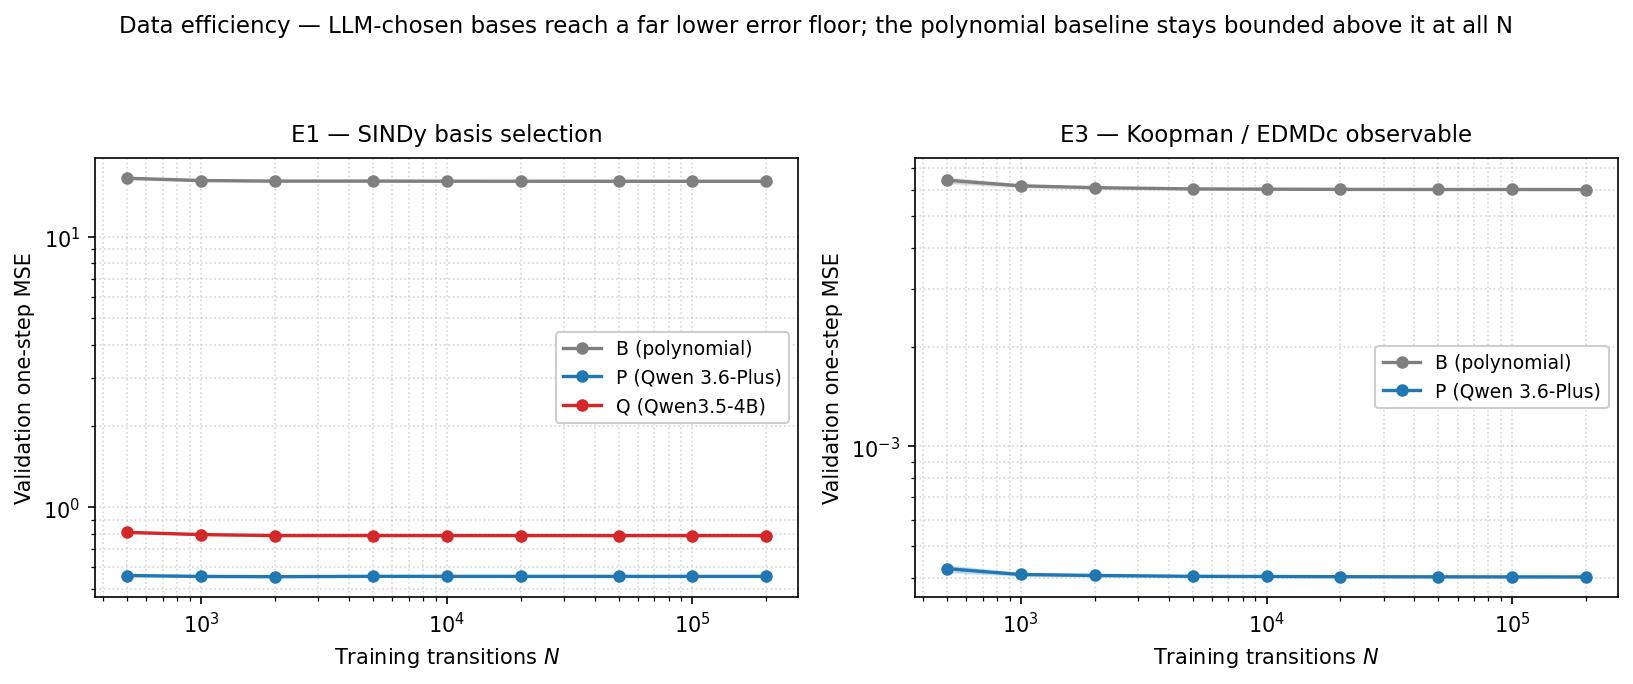
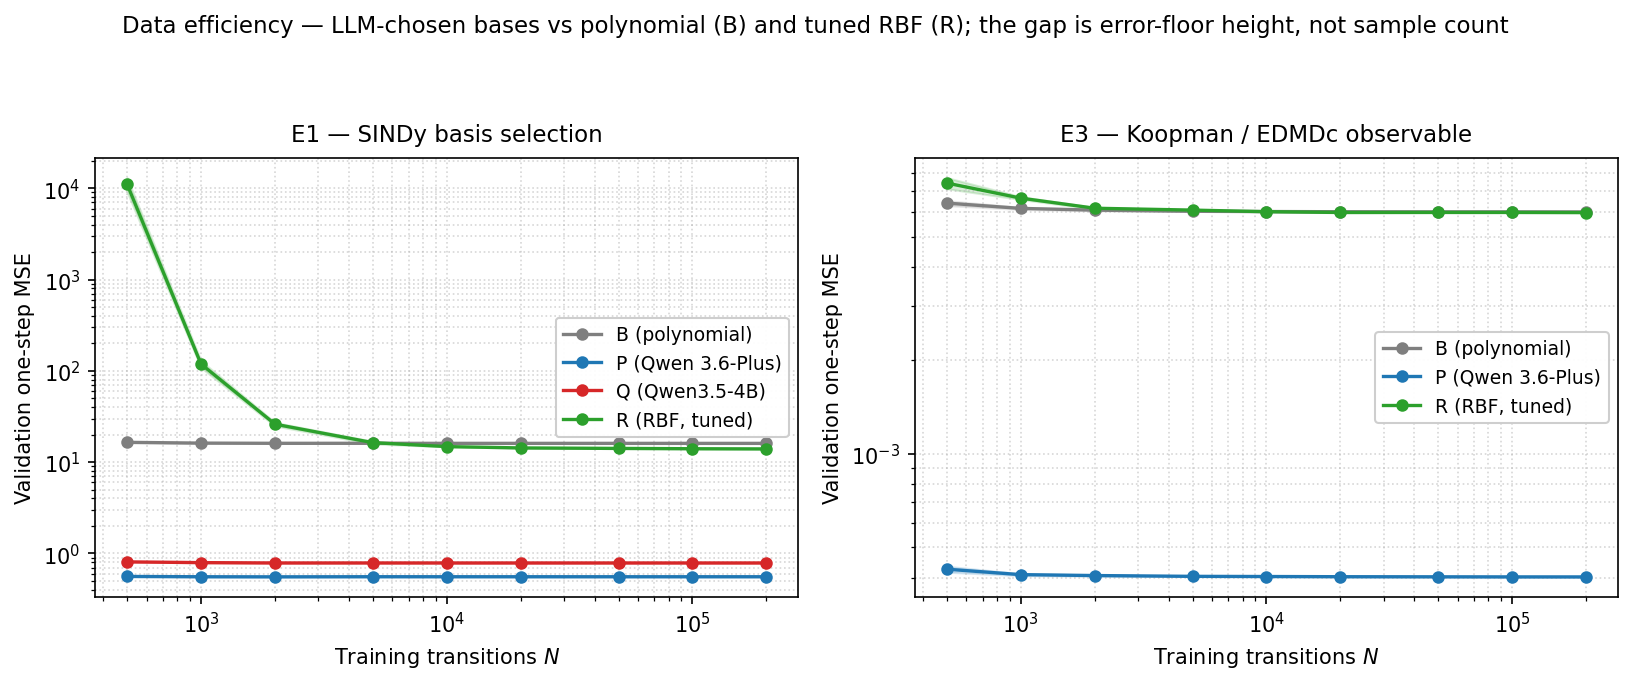
viz(rbf): add condition R to figures

diff --git a/scripts/figure_cascade.py b/scripts/figure_cascade.py
@@ -32,7 +32,7 @@ CASCADE_CSV = REPO_ROOT / "results" / "cascade_results.csv"
 REF_CSV = REPO_ROOT / "results" / "e3_results.csv"  # ground-truth-MPC reference
 OUTPUT_PNG = REPO_ROOT / "results" / "figure_cascade.png"
 
-COLORS = {"B": "#7f7f7f", "P": "#1f77b4", "Q": "#d62728"}
+COLORS = {"B": "#7f7f7f", "P": "#1f77b4", "Q": "#d62728", "R": "#2ca02c"}
 
 
 def _read_rows(path: Path) -> dict:
@@ -57,7 +57,7 @@ def main() -> None:
     ref = _read_rows(REF_CSV)
     ref_b = ref.get("B")  # ground-truth MPC + Bryson reference
 
-    conditions = [c for c in ["B", "P", "Q"] if c in rows]
+    conditions = [c for c in ["B", "P", "Q", "R"] if c in rows]
 
     fig, axes = plt.subplots(1, 3, figsize=(11.5, 4.0))
 
@@ -76,23 +76,34 @@ def main() -> None:
     }
 
     for ax, (key, ylabel, ylim, sub) in zip(axes, metric_specs):
-        vals = []
-        labels_x = []
-        colors = []
-        build_failed_idx = []
-        for i, cond in enumerate(conditions):
-            r = rows[cond]
-            failed = int(_f(r.get("build_failed", "0")) or 0) == 1
-            v = _f(r.get(key, "")) if not failed else float("nan")
-            vals.append(v)
-            labels_x.append(cond)
-            colors.append(COLORS[cond])
-            if failed:
-                build_failed_idx.append(i)
         x = np.arange(len(conditions))
-        bars = ax.bar(
-            x, vals, color=colors, edgecolor="black", linewidth=0.7,
-        )
+        vals = []
+        reasons = []  # None -> plot numeric bar; else annotation text in place of a bar
+        colors = []
+        for cond in conditions:
+            r = rows[cond]
+            failed_build = int(_f(r.get("build_failed", "0")) or 0) == 1
+            success = _f(r.get("hover_success_rate", ""))
+            colors.append(COLORS[cond])
+            if key == "hover_success_rate":
+                # Success rate is always meaningful (0 is the point for B/R).
+                vals.append(0.0 if failed_build else success)
+                reasons.append("build\nfailed" if failed_build else None)
+            else:
+                # Settle / energy are only meaningful when the controller
+                # actually hovers; a 0%-success run has no settling time and
+                # only a failed-rollout energy, so we annotate instead of
+                # plotting a misleading bar.
+                if failed_build:
+                    vals.append(float("nan"))
+                    reasons.append("build\nfailed")
+                elif np.isnan(success) or success == 0:
+                    vals.append(float("nan"))
+                    reasons.append("0%\nsuccess")
+                else:
+                    vals.append(_f(r.get(key, "")))
+                    reasons.append(None)
+        ax.bar(x, vals, color=colors, edgecolor="black", linewidth=0.7)
         if ylim is not None:
             ax.set_ylim(*ylim)
 
@@ -117,12 +128,13 @@ def main() -> None:
                     alpha=0.85, transform=trans,
                 )
 
-        # Annotate values + build-failed markers
-        for xi, v, cond in zip(x, vals, conditions):
-            if np.isnan(v):
+        # Annotate numeric values, or a failure marker where there is no bar.
+        ymax = ax.get_ylim()[1]
+        for xi, v, reason in zip(x, vals, reasons):
+            if reason is not None:
                 ax.text(
-                    xi, ax.get_ylim()[1] * 0.5, "build\nfailed",
-                    ha="center", va="center", fontsize=10, color="#d62728",
+                    xi, ymax * 0.5, reason,
+                    ha="center", va="center", fontsize=9, color="#d62728",
                     fontweight="bold",
                     bbox=dict(boxstyle="round,pad=0.3", fc="#fde0e0",
                               ec="#d62728", lw=1.0),
@@ -134,7 +146,7 @@ def main() -> None:
                 )
 
         ax.set_xticks(x)
-        ax.set_xticklabels(labels_x, fontsize=12)
+        ax.set_xticklabels(conditions, fontsize=12)
         ax.set_ylabel(ylabel)
         ax.set_title(f"{ylabel}\n{sub}", fontsize=10)
         ax.grid(axis="y", linestyle=":", alpha=0.5)

diff --git a/scripts/figure_data_efficiency.py b/scripts/figure_data_efficiency.py
@@ -1,8 +1,8 @@
 """Figure — data-efficiency: validation one-step MSE vs number of samples.
 
 Two log-log panels:
-  Left  (E1 SINDy basis): B (poly deg 3), P (Qwen 3.6-Plus), Q (Qwen3.5-4B).
-  Right (E3 Koopman/EDMDc): B (poly deg 2), P (Qwen 3.6-Plus).
+  Left  (E1 SINDy basis): B (poly deg 3), P (Qwen 3.6-Plus), Q (Qwen3.5-4B), R (tuned RBF).
+  Right (E3 Koopman/EDMDc): B (poly deg 2), P (Qwen 3.6-Plus), R (tuned RBF).
 Mean +/- 1 std band over the 3 subsample seeds.
 
 Output: results/figure_data_efficiency.png
@@ -23,11 +23,12 @@ REPO_ROOT = Path(__file__).resolve().parent.parent
 RESULTS_CSV = REPO_ROOT / "results" / "data_efficiency.csv"
 OUTPUT_PNG = REPO_ROOT / "results" / "figure_data_efficiency.png"
 
-COLORS = {"B": "#7f7f7f", "P": "#1f77b4", "Q": "#d62728"}
+COLORS = {"B": "#7f7f7f", "P": "#1f77b4", "Q": "#d62728", "R": "#2ca02c"}
 LABELS = {
     "B": "B (polynomial)",
     "P": "P (Qwen 3.6-Plus)",
     "Q": "Q (Qwen3.5-4B)",
+    "R": "R (RBF, tuned)",
 }
 
 
@@ -69,11 +70,11 @@ def _plot_panel(ax, exp_data, conditions, title):
 def main() -> None:
     data = _load()
     fig, axes = plt.subplots(1, 2, figsize=(11, 4.6))
-    _plot_panel(axes[0], data["E1"], ["B", "P", "Q"], "E1 — SINDy basis selection")
-    _plot_panel(axes[1], data["E3"], ["B", "P"], "E3 — Koopman / EDMDc observable")
+    _plot_panel(axes[0], data["E1"], ["B", "P", "Q", "R"], "E1 — SINDy basis selection")
+    _plot_panel(axes[1], data["E3"], ["B", "P", "R"], "E3 — Koopman / EDMDc observable")
     fig.suptitle(
-        "Data efficiency — LLM-chosen bases reach a far lower error floor; "
-        "the polynomial baseline stays bounded above it at all N",
+        "Data efficiency — LLM-chosen bases vs polynomial (B) and tuned RBF (R); "
+        "the gap is error-floor height, not sample count",
         fontsize=11, y=0.99,
     )
     fig.tight_layout(rect=[0, 0, 1, 0.93])
